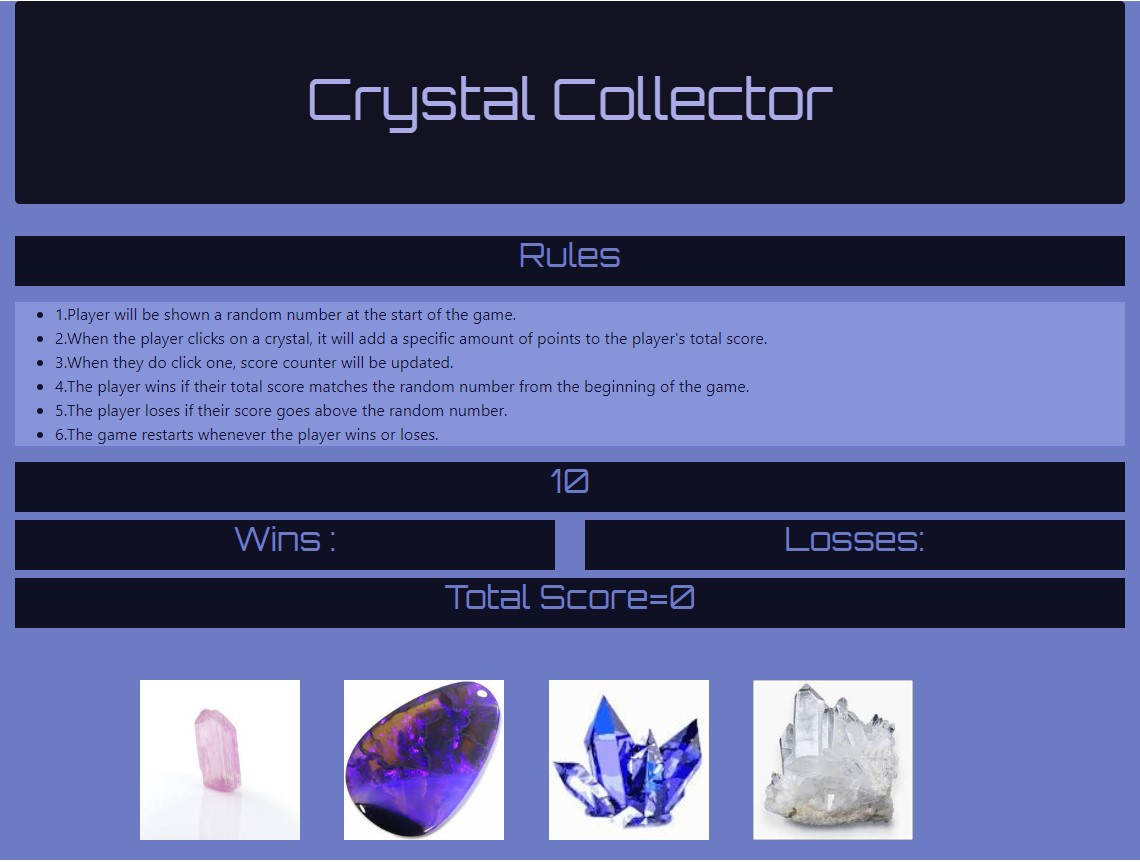
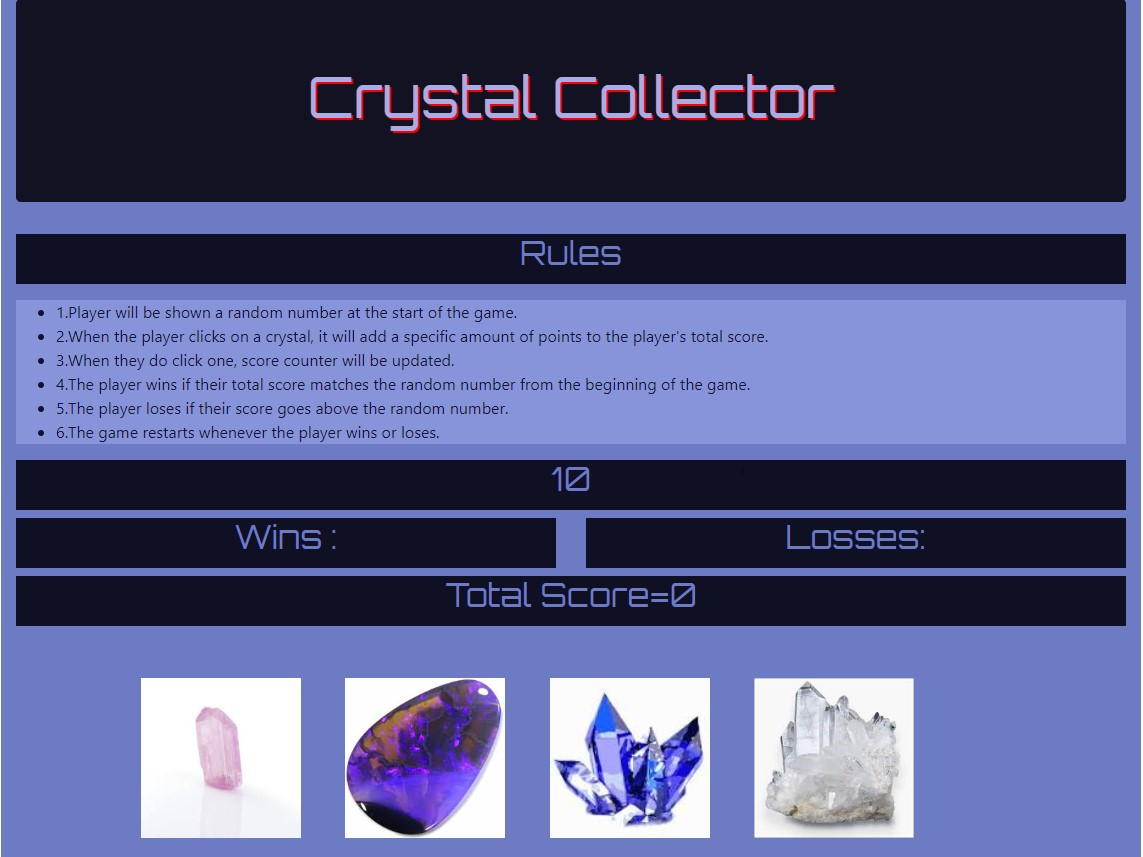
image added

diff --git a/index.html b/index.html
@@ -18,7 +18,7 @@
     <div class="container">
         <!-- <img class="backgrimg" src="assets/images/500_F_96001945_noczdU9FnWWeedYCy3VuviKw1Sxw0pKe.jpg" alt="background"> -->
         <div class="jumbotron" style="background-color:rgb(18, 18, 34);
-        color: rgb(171, 171, 230); margin-top: 10px;font-family: 'Orbitron', sans-serif;text-align: center;">
+        color: rgb(171, 171, 230); margin-top: 10px;font-family: 'Orbitron', sans-serif;text-align: center;text-shadow: 2px 2px #ff0000;">
             <h1 class="display-4">Crystal Collector</h1>
         </div>
         <!-- four crystals displayed as buttons on the page. -->
